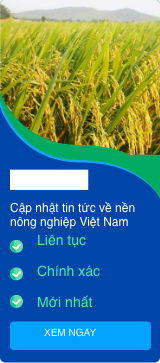
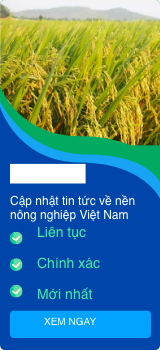
feat: moment

diff --git a/my-app/src/App.js b/my-app/src/App.js
@@ -5,7 +5,31 @@ import Section from './containers/section';
 import Footer from './containers/footer';
 import Header from './containers/header';
 import ButtonBox from './components/buttonBoxs';
+import BoxDate from './components/boxDate';
 import Advertisement from './containers/advertisement';
+import icon_price_table from './components/icons/icon_price_table.png'
+import icon_chart from './components/icons/icon_chart.png'
+import icon_news from './components/icons/icon_news.png'
+import icon_media from './components/icons/icon_media.png'
+
+const dataIcon = [
+  {
+    name: icon_price_table,
+    text: 'Bảng giá'
+  },
+  {
+    name: icon_chart,
+    text: 'Biểu đồ'
+  },
+  {
+    name: icon_news,
+    text: 'Tin tức'
+  },
+  {
+    name: icon_media,
+    text: 'Media'
+  }
+]
 
 function App() {
   return (
@@ -23,7 +47,13 @@ function App() {
         </div>
         <Advertisement />
       </div>
-      <ButtonBox />
+      <div style={{ flexDirection: 'row', display: 'flex' }}>
+        {dataIcon.map((item) =>
+          <ButtonBox iconName={item?.name} textItem={item?.text} />
+        )}
+        <BoxDate />
+      </div>
+
     </div>
   );
 }

diff --git a/my-app/public/dist/css/styles.css b/my-app/public/dist/css/styles.css
@@ -10418,9 +10418,9 @@ body {
   justify-content: space-between;
   min-width: 0;
   flex-grow: 1;
-  min-height: calc(100vh - 185px);
+  height: 75vh !important;
   margin-left: 107px !important;
-  background-color: #ffffff;
+  background-color: white;
 }
 
 .sb-sidenav-toggled #layoutSidenav #layoutSidenav_nav {
@@ -10463,9 +10463,9 @@ body {
 }
 .sb-nav-fixed #layoutSidenav #layoutSidenav_nav {
   width: 225px;
-  height: 80vh;
+  height: 75vh;
   z-index: 1038;
-  margin-top: 144px;
+  margin-top: 134px;
 }
 .sb-nav-fixed #layoutSidenav #layoutSidenav_nav .sb-sidenav {
   padding-top: 0px;
@@ -10475,7 +10475,7 @@ body {
 }
 .sb-nav-fixed #layoutSidenav #layoutSidenav_content {
   padding-left: 225px;
-  top: 30px;
+  top: 20px;
 }
 
 #layoutError {

diff --git a/my-app/src/components/buttonBoxs/index.js b/my-app/src/components/buttonBoxs/index.js
@@ -1,13 +1,17 @@
 import React, { useState } from 'react';
+import icon_all from '../icons/icon_all.png';
+import './buttonBox.css'
 
-const ButtonBox =()=> {
-  // Declare a new state variable, which we'll call "count"
-  const [count, setCount] = useState(0);
+const ButtonBox = (props) => {
+    console.log({props});
+    // Declare a new state variable, which we'll call "count"
+    const [count, setCount] = useState(0);
 
-  return (
-    <div style={{backgroundColor: 'red', width: 100, height: 50}}>
-     
-    </div>
-  );
+    return (
+        <div className="box_btn">
+            <img src={props?.iconName} className="icon_btn"/>
+            <div className="text_btn">{props?.textItem}</div>
+        </div>
+    );
 }
 export default ButtonBox;

diff --git a/my-app/src/containers/footer/index.js b/my-app/src/containers/footer/index.js
@@ -5,17 +5,9 @@ const Footer = () => {
     const [count, setCount] = useState(0);
 
     return (
-        <footer className="py-4 bg-light mt-auto">
-            <div className="container-fluid">
-                <div className="d-flex align-items-center justify-content-between small">
-                    <div className="text-muted">Copyright © Your Website 2020</div>
-                    <div>
-                        <a href="#">Privacy Policy</a>
-                        <a href="#">Terms &amp; Conditions</a>
-                    </div>
-                </div>
-            </div>
-        </footer>
+        <div className="box">
+            hihihi
+        </div>
     );
 }
 

diff --git a/my-app/src/components/boxDate/index.js b/my-app/src/components/boxDate/index.js
@@ -1,0 +1,22 @@
+import React, { useState } from 'react';
+import icon_box_calendar from '../icons/icon_box_calendar.png';
+import './boxDate.css'
+import moment from 'moment';
+
+const BoxDate = () => {
+    // Declare a new state variable, which we'll call "count"
+    const [count, setCount] = useState(0);
+
+    return (
+        <div className="boxContainer">
+            <div className="box_icon">
+                <img src={icon_box_calendar} className="icon_calendar"/>
+            </div>
+            <div>{moment().format('LTS')} - </div>
+             
+            <div> {moment().subtract(10, 'days').calendar()}</div>
+
+        </div>
+    );
+}
+export default BoxDate;

diff --git a/my-app/src/components/boxDate/boxDate.css b/my-app/src/components/boxDate/boxDate.css
@@ -1,0 +1,23 @@
+.boxContainer {
+    background-color: #0046AA;
+    border-radius: 20px;
+    width: 290px;
+    height: 40px;
+    display: flex;
+    flex-direction: row;
+    margin-right: 20px;
+    align-items: center;
+    color: white;
+}
+.box_icon {
+    background-color: #19B9F5;
+    width: 40px;
+    height: 40px;
+    border-radius: 20px;
+    margin-right: 35px;
+}
+.icon_calendar {
+    width: 18px;
+    height: 18px;
+    margin: 10px;
+}

diff --git a/my-app/src/containers/advertisement/advertisement.css b/my-app/src/containers/advertisement/advertisement.css
@@ -1,15 +1,16 @@
 .container {
     width: 200px;
-    margin-top: 30px;
+    margin-top: 20px;
     flex-direction: column;
 }
 .img_1 {
     background-image: url(../../components/images/advertisement_1.png);
     width: 160px;
-    height: 363px;
+    height: 345px;
 }
 .img_2 {
     background-image: url(../../components/images/advertisement_2.png);
     width: 160px;
-    height: 380px;
+    height: 310px;
+    margin-top: 15px;
 }

diff --git a/my-app/src/components/buttonBoxs/buttonBox.css b/my-app/src/components/buttonBoxs/buttonBox.css
@@ -1,0 +1,21 @@
+.box_btn {
+    background-color: white;
+    width: 290px;
+    height: 40px;
+    margin-left: 20px;
+    margin-right: 20px;
+    flex-direction: row;
+    display: flex;
+    border-radius: 20px;
+    align-items: center;
+    padding-left: 80px;
+}
+.icon_btn {
+    width: 18px;
+    height: 18px;
+    margin-right: 9px;
+}
+.text_btn {
+    font-size: 15px;
+    color: black;
+}

diff --git a/my-app/src/containers/footer/footer.css b/my-app/src/containers/footer/footer.css
@@ -1,0 +1,11 @@
+.box {
+    width: 100%;
+    display: flex;
+    flex-wrap: wrap;
+  }
+.style_box {
+    margin-left: 115px;
+    padding-left: inherit;
+    font-size: 13px;
+    color: #0046AA;
+  }
